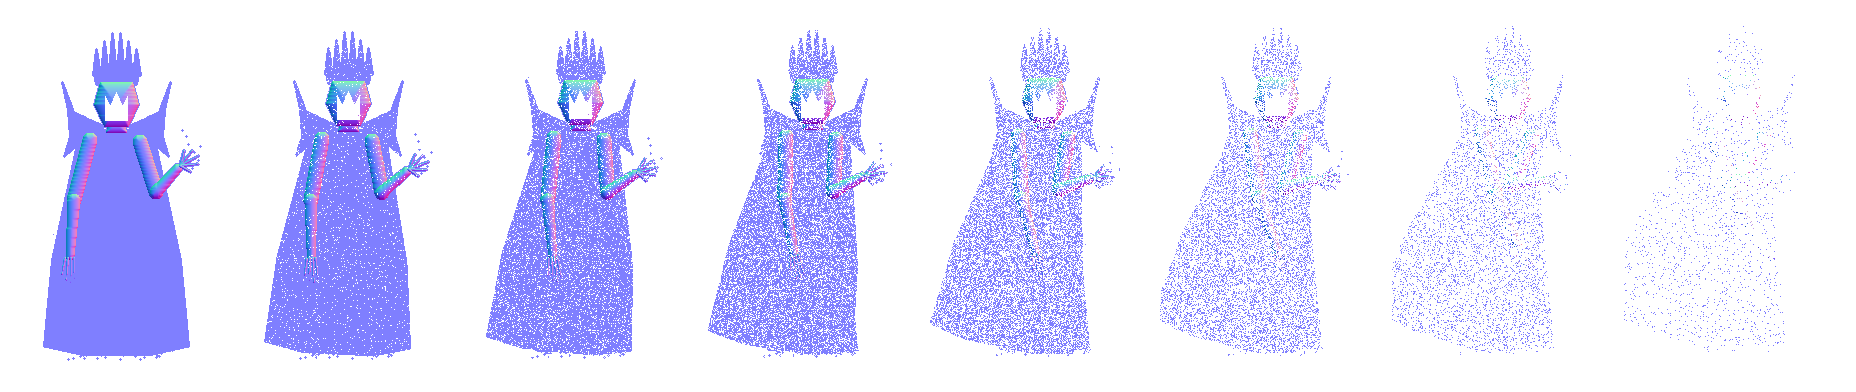
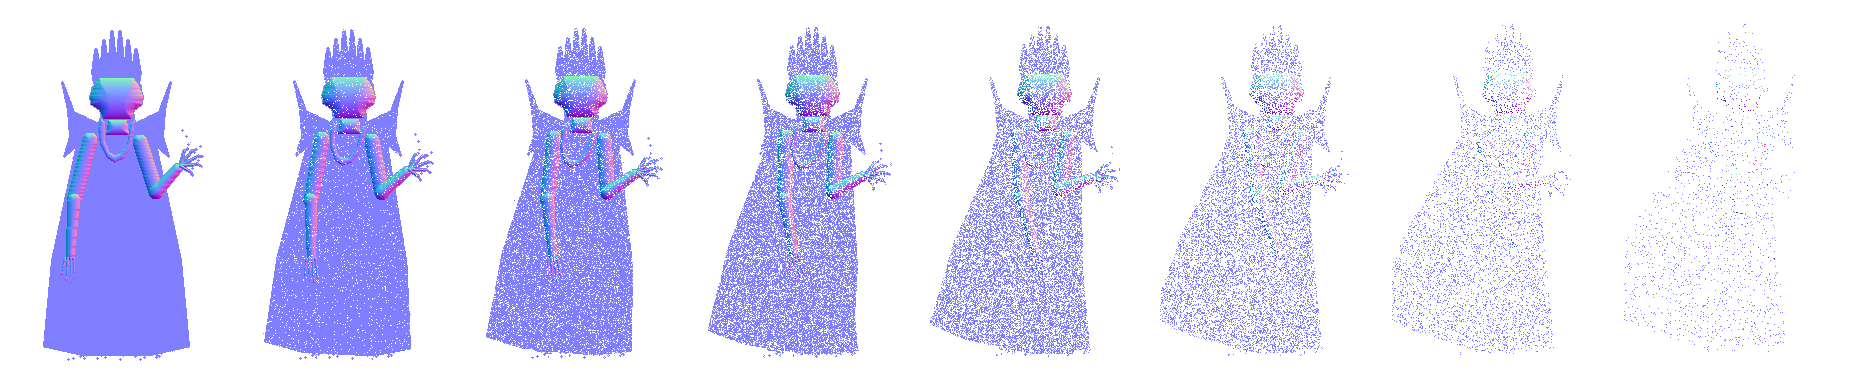
Give Vael-Orrun a monster face: ashen skull, six burning eyes, a jaw that gapes on the Heartstone fire (design only)
The crown-shaped gap stays as a glowing wound in his brow, so the epilogue lantern still has somewhere to go.
Redraws his rest pose, animation strips (jaw drops in idle, walk, attack and death), portrait and the stills he is in.

Claude-Session: https://claude.ai/code/session_01VdUyUgRi6CvYJeA1opN18c

diff --git a/tools/art/pix2d/bosses.py b/tools/art/pix2d/bosses.py
@@ -17,6 +17,13 @@ BASALT_D = ramp("38333e", spread=0.5, shift=0.03)
 SMOKE = ramp("4a4650", spread=0.4, shift=0.0)
 GLASS = ramp("26223a", spread=0.5, shift=0.0)
 GLASS_D = ramp("16141f", spread=0.36, shift=0.0)
+SKULL = ramp("5c5468", spread=0.6, shift=0.03)        # Vael-Orrun's face: dead ashen glass
+SOCKET = (6, 2, 6)
+EYE_D = (44, 6, 9)
+EYE = [(150, 16, 18), (236, 64, 28), (255, 168, 72), (255, 246, 214)]
+MAW = [(22, 4, 8), (74, 10, 12), (176, 40, 20), (250, 128, 44), (255, 226, 150)]
+TOOTH = ramp("cfc2a2", spread=0.5)
+DROOL = (255, 196, 120)
 RING = [(255, 122, 58), (200, 216, 255), (138, 240, 80), (74, 224, 224), (232, 176, 64), (176, 112, 255)]  # the six
 
 
@@ -206,7 +213,8 @@ def cinder_tyrant(pose=None, pad=0):
 
 
 def vael_orrun(pose=None, pad=0):
-    """Vael-Orrun, the High King: a still figure of black glass with a crown-shaped hole for a face."""
+    """Vael-Orrun, the High King: a towering figure of black glass under a crown of spikes. His face is a gaunt skull
+    of ashen glass with six burning eyes and a jaw torn open to the stolen Heartstone fire in his throat."""
     s = Sprite(176, 336, pose, pad, origin=(0, 32))
     # cape of black glass behind
     s.g("cloak", 88, 70)
@@ -222,6 +230,7 @@ def vael_orrun(pose=None, pad=0):
     s.part(s.capsule(46, 140, 42, 196, 6.5, 4.5), GLASS, bias=-0.1, edge=False)
     for dx, ln in ((-5, 16), (-2, 22), (1, 24), (4, 20)):
         s.part(s.capsule(42 + dx, 198, 41 + dx * 1.4, 198 + ln, 1.4, 0.8), GLASS, edge=False)
+        s.line(41 + dx * 1.4, 198 + ln, 42 + dx * 1.6, 202 + ln, TOOTH[2])
     # robe: long faceted planes of glass
     s.g("body")
     facets = [([(64, 72), (78, 72), (72, 292), (44, 292), (54, 180)], 3), ([(78, 72), (90, 72), (92, 292), (72, 292)], 2),
@@ -253,30 +262,91 @@ def vael_orrun(pose=None, pad=0):
         s.line(sx - 14 * sgn, 66, sx + 22 * sgn, 50, GLASS[4 if sgn < 0 else 2])
         s.fill(s.poly([(sx + 14 * sgn, 60), (sx + 22 * sgn, 50), (sx + 28 * sgn, 22)]), GLASS[2 if sgn < 0 else 0])
         s.line(sx + 14 * sgn, 60, sx + 28 * sgn, 22, GLASS[4 if sgn < 0 else 1])
-    # head: a tall mask of glass under the black crown with six empty sockets
+    # head: a gaunt skull of ashen glass with the black crown driven into it, six burning eyes, and a jaw hanging open
+    # on the stolen Heartstone fire in his throat. The jaw hinges behind the cheek so it can gape wider when he strikes.
     s.g("head", 88, 68)
-    s.part(s.poly([(80, 60), (96, 60), (98, 72), (78, 72)]), GLASS_D)                  # neck
-    head = s.poly([(72, 22), (104, 22), (110, 44), (100, 66), (76, 66), (66, 44)])
-    s.part(head, GLASS, bulge=0.7)
-    s.line(72, 24, 67, 44, GLASS[4])
-    s.line(67, 44, 76, 65, GLASS[3])
-    s.fill(s.poly([(66, 14), (110, 14), (108, 24), (68, 24)]), GLASS_D[2])
-    s.line(66, 14, 110, 14, GLASS[4])
-    for i, x in enumerate((66, 74, 82, 90, 98, 106)):
-        h = (26, 34, 42, 42, 34, 26)[i]
-        s.fill(s.poly([(x - 1, 15), (x + 6, 15), (x + 2.5, 15 - h)]), GLASS_D[3 if i < 3 else 1])
-        s.line(x - 1, 15, x + 2, 15 - h, GLASS[4] if i < 3 else GLASS[2])
-        s.fill(s.rect(x + 1, 17, x + 4, 21), (6, 5, 10))                               # an empty socket
-        s.px(x + 1, 17, (120, 120, 150))
-    # the crown-shaped hole where the face should be: cut clean through the sprite
-    hole = s.poly([(77, 60), (77, 36), (82, 46), (88, 32), (94, 46), (99, 36), (99, 60)])
-    grow = hole.copy()
-    grow[1:] |= hole[:-1]
-    grow[:-1] |= hole[1:]
-    grow[:, 1:] |= hole[:, :-1]
-    grow[:, :-1] |= hole[:, 1:]
-    s.fill(grow & ~hole & s.a, (214, 216, 232), glow=True)
-    s.a[hole] = False
+    s.part(s.poly([(80, 60), (98, 60), (100, 74), (78, 74)]), GLASS_D)                  # neck
+    throat = s.poly([(73, 54), (105, 54), (105, 64), (101, 84), (93, 94), (83, 94), (77, 84), (73, 64)])
+    s.fill(throat, MAW[0])
+    s.fill(s.ellipse(89, 80, 10, 14) & throat, MAW[1])
+    for x0, y0, x1, y1 in ((77, 58, 78, 74), (102, 58, 101, 76), (80, 58, 83, 66)):    # sinew strung across the gape
+        s.line(x0, y0, x1, y1, MAW[1])
+    skull = s.poly([(71, 18), (105, 18), (110, 25), (114, 36), (113, 44), (105, 50), (103, 58), (75, 58), (72, 50), (63, 44), (62, 36), (66, 25)])
+    s.part(skull, SKULL, bulge=0.8)
+    s.fill(s.poly([(63, 44), (72, 50), (75, 58), (77, 50)]), SKULL[0])                  # the cheeks fall in under the bone
+    s.fill(s.poly([(113, 44), (105, 50), (103, 58), (102, 50)]), SKULL[1])
+    s.line(64, 43, 76, 48, SKULL[4])                                                    # cheekbone ridges catch the light
+    s.line(102, 48, 112, 43, SKULL[3])
+    s.line(66, 26, 63, 36, SKULL[4])
+    s.line(63, 36, 64, 42, SKULL[4])
+    s.fill(s.rect(62, 23, 114, 25) & skull, SKULL[0])                                    # shadow cast by the crown
+    s.line(88, 22, 88, 24, SKULL[0])                                                    # a seam down the brow
+    for pts in (((70, 22), (67, 29)), ((106, 22), (109, 28)), ((78, 22), (80, 30)), ((98, 22), (97, 30))):
+        (x0, y0), (x1, y1) = pts
+        s.line(x0, y0, x1, y1, SKULL[0])                                                # bone grooves under the crown
+    # his old signature kept as a wound: a crown-shaped gap burned into the brow, empty grey light (the Unmaking)
+    gap = s.poly([(83, 34), (83, 26), (85.5, 29), (88, 25), (90.5, 29), (93, 26), (93, 34)])
+    s.fill(gap, GREY_GLOW[2], glow=True)
+    s.fill(s.poly([(84, 33), (84, 29), (86, 31), (88, 28), (90, 31), (92, 29), (92, 33)]), GREY_GLOW[3], glow=True)
+    # a scowling brow over two deep sockets, each with a slit-pupilled eye of white fire
+    s.fill(s.poly([(64, 28), (89, 37), (112, 26), (112, 31), (89, 41), (64, 32)]), SKULL[1])
+    s.line(64, 27, 89, 36, SKULL[4])
+    s.line(89, 36, 112, 25, SKULL[3])
+    for pts in ([(66, 33), (88, 41), (86, 48), (72, 47), (66, 40)], [(91, 41), (111, 31), (112, 39), (106, 47), (93, 48)]):
+        s.fill(s.poly(pts), SOCKET)
+    for ex, ey in ((77, 42), (101, 41)):
+        sock = s.ellipse(ex, ey + 0.5, 5, 3) & s.a & (s.rgb == SOCKET).all(-1)
+        s.fill(sock, EYE_D, glow=True)                                                  # the socket smoulders round it
+        s.fill(s.rect(ex - 4, ey - 1, ex + 4, ey + 2), EYE[0], glow=True)
+        s.fill(s.rect(ex - 3, ey - 1, ex + 3, ey + 1), EYE[1], glow=True)
+        s.fill(s.rect(ex - 2, ey - 1, ex + 2, ey), EYE[2], glow=True)
+        s.pxs([(ex - 1, ey - 1), (ex + 1, ey - 1)], EYE[3], glow=True)
+        s.line(ex, ey - 2, ex, ey + 2, SOCKET)                                          # the slit pupil
+    # four smaller eyes crowding the temples and cheeks: six in all, one for each crown that betrayed him
+    for ex, ey in ((65, 36), (69, 47), (111, 34), (108, 46)):
+        s.fill(s.rect(ex - 1, ey - 1, ex + 2, ey + 1), SOCKET)
+        s.fill(s.rect(ex, ey, ex + 1, ey), EYE[1], glow=True)
+        s.px(ex, ey, EYE[3], glow=True)
+    # fire weeping from the eyes down the cheeks
+    for pts in ([(75, 47), (74, 52), (76, 56)], [(103, 47), (105, 51), (104, 56)]):
+        _crack(s, pts, EYE[1], EYE[2])
+    s.fill(s.poly([(86, 46), (89, 45), (88, 53)]), SOCKET)                              # a nose of two slits
+    s.fill(s.poly([(90, 45), (93, 46), (91, 53)]), SOCKET)
+    # the crown, black glass hammered down into the skull; its spikes bleed thin cracks into the brow
+    s.fill(s.poly([(64, 12), (112, 12), (110, 23), (66, 23)]), GLASS_D[2])
+    s.line(64, 12, 112, 12, GLASS[4])
+    s.line(66, 23, 110, 23, GLASS_D[0])
+    for i, x in enumerate((65, 73, 81, 89, 97, 105)):
+        h = (24, 33, 42, 42, 33, 24)[i]
+        s.fill(s.poly([(x - 1, 13), (x + 7, 13), (x + 3, 13 - h)]), GLASS_D[3 if i < 3 else 1])
+        s.line(x - 1, 13, x + 2, 13 - h, GLASS[4] if i < 3 else GLASS[2])
+        s.fill(s.rect(x + 2, 16, x + 4, 20), (6, 5, 10))                               # an empty socket where a gem was
+    for pts in ([(72, 23), (74, 27), (72, 30)], [(96, 23), (94, 26), (96, 29)], [(106, 23), (108, 26)]):
+        _crack(s, pts, EYE[0])
+    # upper fangs, long and uneven, hanging into the fire
+    for x, ln in ((76, 4), (79, 11), (82, 4), (85, 6), (88, 3), (91, 6), (94, 4), (97, 5), (100, 13), (103, 4)):
+        s.fill(s.poly([(x - 1.2, 57), (x + 1.6, 57), (x + 0.3, 57 + ln)]), TOOTH[2])
+        s.line(x - 1, 57, x, 57 + ln - 1, TOOTH[4])
+        s.px(x + 1, 57, TOOTH[0])
+    for x0, y0, y1 in ((86, 62, 71), (96, 61, 71)):                                     # strings of glowing spit
+        s.line(x0, y0, x0 + 1, y1, DROOL, glow=True)
+    # the lower jaw: a long bony chin hinged behind the cheek, lower fangs pointing up
+    s.g("jaw", 74, 56, "head")
+    gullet = s.poly([(73, 72), (105, 72), (101, 84), (93, 94), (83, 94), (77, 84)])
+    s.fill(gullet, MAW[0])
+    s.fill(s.ellipse(89, 80, 10, 14) & gullet, MAW[1])                                 # the fire sits low and drops with the jaw
+    s.fill(s.ellipse(90, 83, 6, 10) & gullet, MAW[2], glow=True)
+    s.fill(s.ellipse(90, 86, 3, 6) & gullet, MAW[3], glow=True)
+    s.fill(s.ellipse(90, 88, 1.5, 3) & gullet, MAW[4], glow=True)
+    jaw = s.poly([(72, 56), (71, 66), (74, 82), (81, 95), (89, 99), (97, 95), (103, 84), (106, 66), (106, 56),
+                  (102, 60), (100, 80), (94, 90), (88, 92), (82, 89), (77, 78), (76, 60)])
+    s.part(jaw, SKULL, bulge=0.6)
+    s.line(72, 57, 74, 82, SKULL[4])
+    s.line(74, 82, 81, 95, SKULL[3])
+    for x, y, ln in ((78, 76, 4), (80, 84, 10), (84, 89, 4), (88, 91, 5), (92, 90, 4), (96, 87, 5), (99, 80, 11), (101, 70, 4)):
+        s.fill(s.poly([(x - 1.2, y), (x + 1.6, y), (x + 0.3, y - ln)]), TOOTH[2])
+        s.line(x - 1, y, x, y - ln + 1, TOOTH[4])
+    s.g("body")
     # raised arm (front): reaching out, palm open, colour draining to grey around the hand
     s.g("weapon", 112, 82)
     s.part(s.capsule(112, 82, 128, 132, 7.5), GLASS)
@@ -284,11 +354,12 @@ def vael_orrun(pose=None, pad=0):
     s.part(s.capsule(128, 132, 150, 108, 6.5, 4.5), GLASS, edge=False)
     for ang, ln in ((-1.3, 16), (-0.9, 20), (-0.5, 21), (-0.1, 18), (0.5, 12)):
         s.part(s.capsule(152, 106, 152 + np.cos(ang) * ln, 106 + np.sin(ang) * ln, 1.5, 0.8), GLASS, edge=False)
+        tx, ty = 152 + np.cos(ang) * ln, 106 + np.sin(ang) * ln                         # a hooked bone talon on each finger
+        s.line(tx, ty, tx + np.cos(ang + 0.6) * 4, ty + np.sin(ang + 0.6) * 4, TOOTH[3])
     s.line(114, 86, 126, 126, (150, 150, 190))
     for x, y in ((160, 84), (166, 92), (158, 76), (170, 100), (164, 108), (172, 86), (154, 70)):
         s.px(x, y, GREY_GLOW[1], glow=True)
     s.ink()
-    s.a[hole] = False
     _dust(s, 50, 2)
     s.shadow(88, 296, 50, 5)
     return s

diff --git a/tools/art/pix2d/portraits.py b/tools/art/pix2d/portraits.py
@@ -39,7 +39,7 @@ PEOPLE = {"tamsin": "tamsin", "brannoc": "brannoc", "kaela": "kaela", "sylvaine"
 HEADS = {"saltmother": ("ourra", 50, 52, 48, "3a8a8a", None), "gorrath": ("gorrath", 54, 24, 48, "a07c4c", None),
          "pale_vesper": ("vesper", 63, 20, 48, "8a70c0", None), "ashwick": ("ashwick", 49, 24, 48, "e06020", None),
          "vholt": ("vholt", 90, 36, 48, "6a78b0", None), "mother_briar": ("mother_briar", 76, 42, 48, "5a8a3a", None),
-         "cassivane_ashen": ("cassivane", 52, 34, 48, "6a5a5a", None), "vael_orrun": ("vael_orrun", 88, 60, 96, "50485e", None),
+         "cassivane_ashen": ("cassivane", 52, 34, 48, "6a5a5a", None), "vael_orrun": ("vael_orrun", 88, 80, 96, "50485e", None),
          "ignar": ("cinder_tyrant", 90, 58, 48, "e0602a", FIRE), "aurath": ("thunderhead", 94, 62, 48, "8aa0e0", STORM),
          "orrok": ("mountain_titan", 132, 74, 48, "b07030", AMBER),
          "sundered_heart": ("sundered_heart", 104, 100, 96, "e0a040", None), "hollow_king": ("hollow_king", 86, 54, 48, "5a40a0", None)}

diff --git a/tools/art/pix2d/anim.py b/tools/art/pix2d/anim.py
@@ -43,6 +43,11 @@ for _h in ("ourra", "gorrath", "vesper", "ashwick", "vholt", "mother_briar"):   
             _t["echo_" + _h] = _t[_h]
 
 
+# bosses whose jaw drops (rot, dx, dy per frame) on top of their style's motion
+GAPE = {"vael_orrun": {"idle": [(0, 0, v) for v in (0, 1, 2, 2, 1, 0)],
+                       "walk": [(0, 0, v) for v in (0, 1, 1, 0, 0, 1, 1, 0)],
+                       "attack": [(0.02 * v, 0, v) for v in (0, 1, 3, 5, 9, 10, 5, 1)],
+                       "death": [(0.03 * v, 0, v) for v in (2, 5, 8, 10, 10, 10, 10, 10)]}}
 ORBIT = {"orb_earth": math.pi / 3, "orb_nature": math.pi / 4}   # aura turns by one symmetry step per loop
 
 
@@ -190,6 +195,8 @@ def frames(name, anim):
         if anim == "death":
             style = DEATH.get(name, style)
         pose = fn(i, n, style, name)
+        if anim in GAPE.get(name, {}):
+            pose["jaw"] = GAPE[name][anim][i]
         pose["_t"] = i
         pad = PADS.get(name, PAD)
         s = creatures.CREATURES[name](pose, pad)

diff --git a/tools/art/pix2d/shots_story.py b/tools/art/pix2d/shots_story.py
@@ -1310,11 +1310,11 @@ def epilogue_02():
     sc = Scene(342)
     _void_hall(sc)
     sc.put("vael_orrun", 160, 360)
-    sc.glow(160, 60, 60, (240, 240, 255), 0.8)
-    lantern(sc, 160, 64, 2)
+    sc.glow(160, 46, 60, (240, 240, 255), 0.8)            # the crown-shaped gap is the wound in his brow
+    lantern(sc, 160, 49, 2)
     for k in range(10):
         a = k / 10 * math.pi * 2
-        sc.line(160, 64, 160 + math.cos(a) * 70, 64 + math.sin(a) * 50, (200, 200, 230))
+        sc.line(160, 49, 160 + math.cos(a) * 70, 49 + math.sin(a) * 50, (200, 200, 230))
     sc.put("oswin_white", 110, 178, rim=(255, 255, 255))
     sc.vignette(0.45)
     return sc
